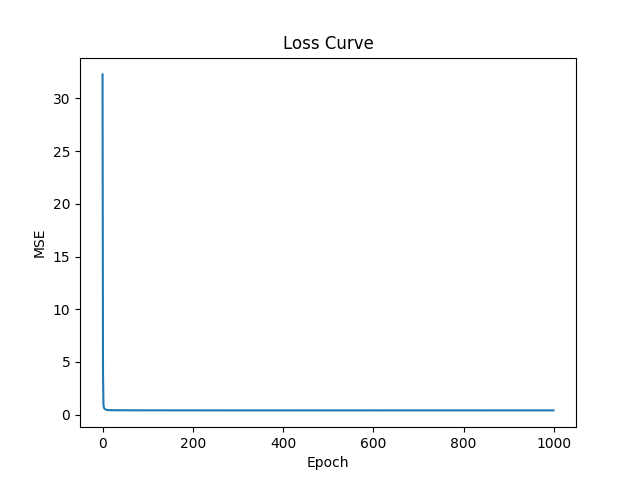
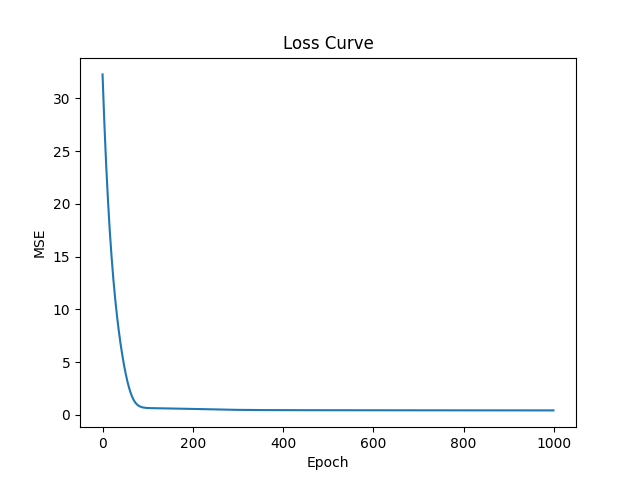
adição de funcionalidade: multiplas camadas ocultas

Changed region(s): [[0.1562, 0.1875, 0.5938, 0.875], [0.0938, 0.75, 0.125, 0.7812]]

diff --git a/src/model.py b/src/model.py
@@ -1,12 +1,19 @@
 import numpy as np
 
 class MLP:
-    def __init__(self, input_size, hidden_size, output_size, learning_rate=0.01):
-        self.W1 = np.random.randn(input_size, hidden_size) * 0.01
-        self.b1 = np.zeros((1, hidden_size))
-        self.W2 = np.random.randn(hidden_size, output_size) * 0.01
-        self.b2 = np.zeros((1, output_size))
+    def __init__(self, input_size, hidden_layers, output_size, learning_rate=0.01):
         self.lr = learning_rate
+        self.weights = []
+        self.biases = []
+        self.activations = []
+        
+        layer_sizes = [input_size] + hidden_layers + [output_size]
+        
+        for i in range(len(layer_sizes) - 1):
+            W = np.random.randn(layer_sizes[i], layer_sizes[i+1]) * 0.01
+            b = np.zeros((1, layer_sizes[i+1]))
+            self.weights.append(W)
+            self.biases.append(b)
 
     def relu(self, Z):
         return np.maximum(0, Z)
@@ -15,10 +22,18 @@ class MLP:
         return Z > 0
 
     def forward(self, X):
-        self.Z1 = np.dot(X, self.W1) + self.b1
-        self.A1 = self.relu(self.Z1)
-        self.Z2 = np.dot(self.A1, self.W2) + self.b2
-        return self.Z2
+        self.activations = [X]
+        A_prev = X
+        
+        for i in range(len(self.weights)):
+            Z = np.dot(A_prev, self.weights[i]) + self.biases[i]
+            if i < len(self.weights) - 1:
+                A = self.relu(Z)
+                self.activations.append(A)
+                A_prev = A
+            else:
+                self.activations.append(Z)
+                return Z
 
     def compute_loss(self, y_pred, y_true):
         return np.mean((y_pred - y_true) ** 2)
@@ -26,23 +41,20 @@ class MLP:
     def backward(self, X, y_pred, y_true):
         m = X.shape[0]
         
-        # Backpropagation
-        dZ2 = (y_pred - y_true) / m
-        dW2 = np.dot(self.A1.T, dZ2)
-        db2 = np.sum(dZ2, axis=0, keepdims=True)
+        dZ = (y_pred - y_true) / m
+        
+        for i in reversed(range(len(self.weights))):
+            dW = np.dot(self.activations[i].T, dZ)
+            db = np.sum(dZ, axis=0, keepdims=True)
 
-        dA1 = np.dot(dZ2, self.W2.T)
-        dZ1 = dA1 * self.relu_derivative(self.Z1)
-        dW1 = np.dot(X.T, dZ1)
-        db1 = np.sum(dZ1, axis=0, keepdims=True)
+            self.weights[i] -= self.lr * dW
+            self.biases[i] -= self.lr * db
 
-        # Atualização dos pesos
-        self.W1 -= self.lr * dW1
-        self.b1 -= self.lr * db1
-        self.W2 -= self.lr * dW2
-        self.b2 -= self.lr * db2
+            if i > 0:
+                dA = np.dot(dZ, self.weights[i].T)
+                dZ = dA * self.relu_derivative(self.activations[i])
 
-    def train(self, X, y, epochs=10000):
+    def train(self, X, y, epochs=1000):
         losses = []
         for epoch in range(epochs):
             y_pred = self.forward(X)

diff --git a/main.py b/main.py
@@ -13,12 +13,20 @@ def run_experiment(dataset_name):
         path = "data/winequality-white.csv"
 
     X_train, X_test, y_train, y_test, scaler = load_wine_data(path=path)
-
-    # Criar modelo
-    learning_rate = np.random.uniform(0.001, 1.0)
+    
+    # Criar modelo com múltiplas camadas ocultas
+    # Para usar apenas uma camada oculta, a lista seria [32]
+    hidden_layers_config = [64, 32]   
+    
+    learning_rate = np.random.uniform(0.001, 0.1)
     print(f"Taxa de aprendizado selecionada: {learning_rate:.6f}")
     
-    model = MLP(input_size=X_train.shape[1], hidden_size=16, output_size=1, learning_rate=learning_rate)
+    model = MLP(
+        input_size=X_train.shape[1], 
+        hidden_layers=hidden_layers_config, 
+        output_size=1, 
+        learning_rate=learning_rate
+    )
 
     # Treinar modelo
     losses = model.train(X_train, y_train, epochs=1000)
